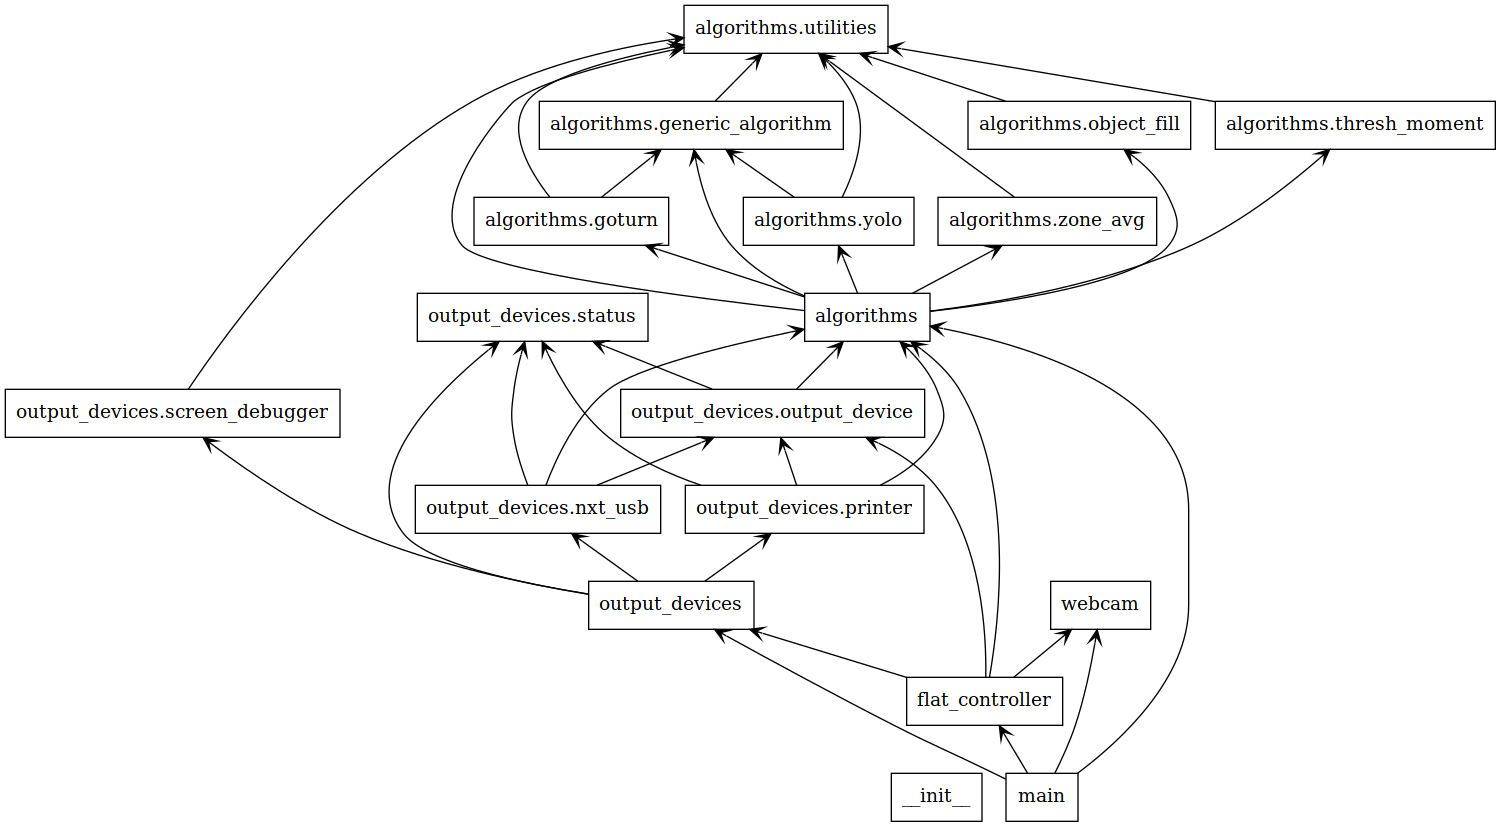
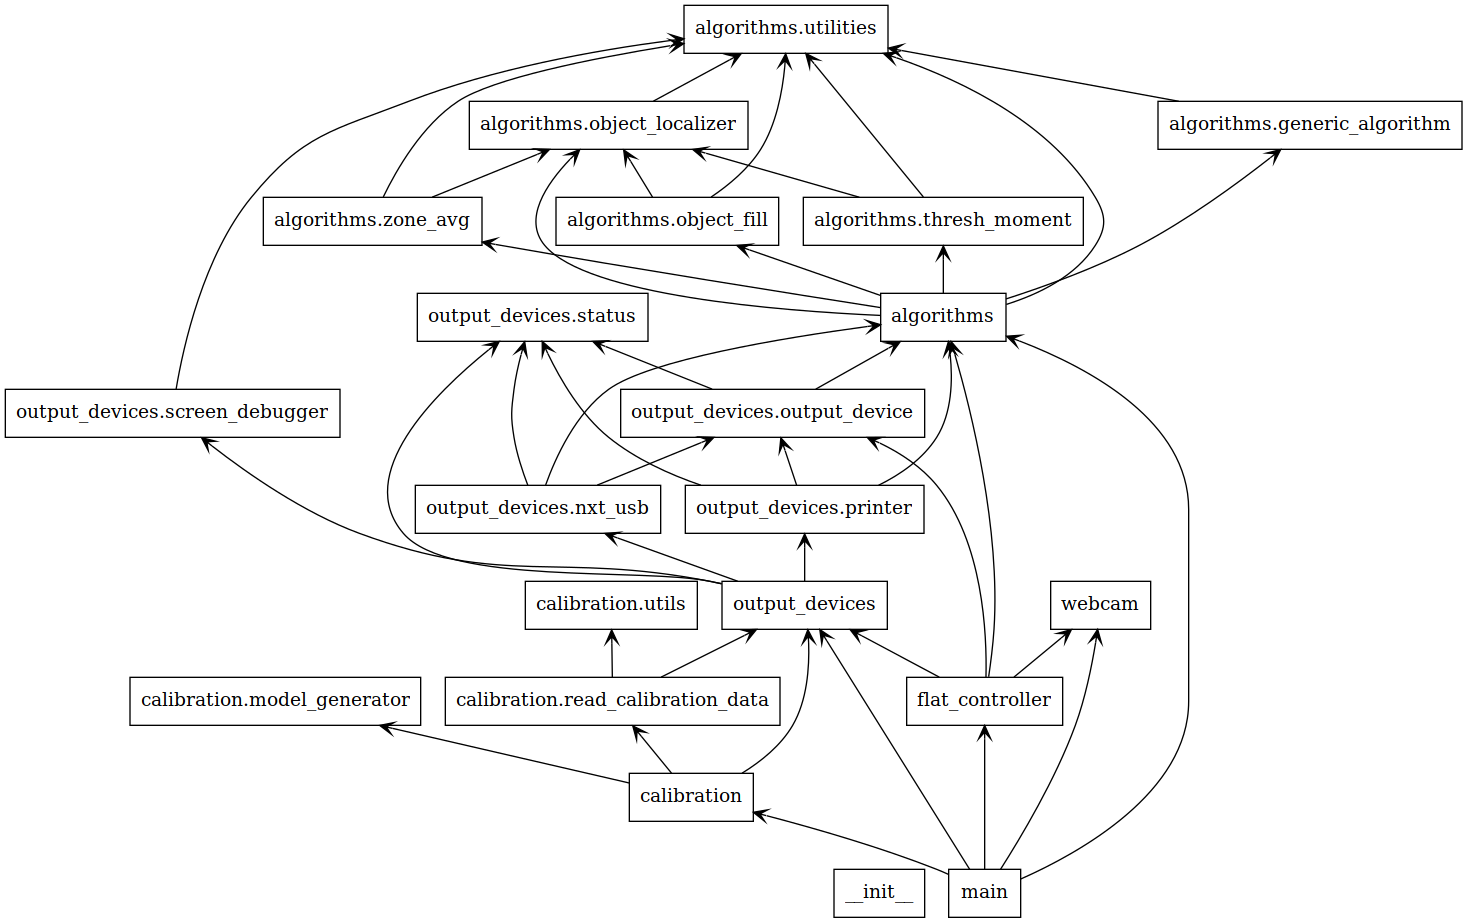
added all snippets

diff --git a/report/5.Solution/MovementModule.tex b/report/5.Solution/MovementModule.tex
@@ -6,7 +6,7 @@ In the following subsections, the movement module will be elaborated upon and so
 
 \subsection{Initialization}
 To utilize the hardware components, they have to be initialized.
-\autoref{lst:InitMotor} shows this process in relation to the different external devices, the motors, laser, and the USB port.
+\autoref{lst:DeviceInit} shows this process in relation to the different external devices, the motors, laser, and the USB port.
 The motors and the lasers are assigned to a specific port, and the USB communication is initialized, as required by nxtOSEK.
 \begin{lstlisting}[language=CSharp, label={lst:DeviceInit},caption={ecrobot\_device\_initialize method from nxt.c}]
 void ecrobot_device_initialize(void) {
@@ -30,11 +30,9 @@ The speed is set to zero, and the initial rotation is set to zero, which results
 
 Whenever a target is acquired, the \texttt{move} function is called.
 \autoref{lst:MoveMotors} shows this function, which first fetches the required motor power and stores this in a global variable.
-A native function is called settings the power on the actual motor.
-The device will then start rotating in the direction of the target, on each axis.
+A native function is called, which makes the motor rotate with the specified power.
 The usage of a global variable, is for usage in the screen module.
-Movement, as can be seen here, is always relative to current location.
-An absolute location of the target is not known, rather the information is based on the center of the camera, and with it the laser.
+Movement, is always relative to current location, as the absolute location of the target is not known, rather the information is based on the center of the camera, and with it the laser.
 
 \begin{lstlisting}[language=CSharp,caption={move method from movement.c},label={lst:MoveMotors}]
   void move(T_VECTOR target) {
@@ -48,7 +46,7 @@ An absolute location of the target is not known, rather the information is based
 
 
 The \texttt{move} function uses the \texttt{get\_speed\_by\_distance} function to get the required speed based on the neural network discussed in \autoref{sec:calibration} and a modifier based on the length of the \texttt{target} vector.
-This feature is explained in \autoref{lst:getspeed}.
+This functionality is shown in \autoref{lst:getspeed}.
 
 \begin{lstlisting}[language=CSharp,caption={get\_speed\_by\_distance method from movement.c},label={lst:getspeed},firstnumber={109}]
 int8_t get_speed_by_distance(int8_t distance, T_AXIS_TYPE axis) {
@@ -64,18 +62,17 @@ int8_t get_speed_by_distance(int8_t distance, T_AXIS_TYPE axis) {
 }
 \end{lstlisting}
 
-If the distance to the target is suffiently small, the motors wont move, which is done by checking whether the distance is less than a constant.
+If the distance to the target is sufficiently small, the motors should not move, which is done by checking whether the distance is less than a constant.
 If this is the case, the returned speed will be zero.
 This \texttt{MOTOR\_DEADZONE} constant is by default 1, meaning that the turret as to aim directly at the target.
 
-If the the distance is larger than \texttt{MOTOR\_DEADZONE}, the function will finding the minimum power required to move in the wanted direction on the relevant axis.
+Alternatively, the function will find the minimum power required to move in the wanted direction on the relevant axis.
 The speed is then timed by $1$ or $-1$ to make sure that the lower bound has the same direction as the distance.
 
 The distance is then mapped into a range, which is a different range based on the axis, in the way described in \autoref{sec:mappingcompvis}.
 
 When the scheduler either is on target or a target cannot be seen, the speed is set to $0$.
-As the system uses the \texttt{ecrobot_set_motor_speed} function, and not the \texttt{nxt_motor_set_speed} function, the motors are automatically set to 'brake', which results in the motor locking when not moving.
-The alternative would be that the motors would power down, and go limp.
+As the system uses the \texttt{ecrobot\_set\_motor\_speed} function, and not the \texttt{nxt\_motor\_set\_speed} function, the motors are automatically set to 'brake', which results in the motor locking when not moving.
 \begin{lstlisting}[language=CSharp,label={lst:StopMotors},caption={stop\_motors method from movement.c}]
 void stop_motors(){
   ecrobot_set_motor_speed(x_motor, 0);

diff --git a/report/5.Solution/MI_solution/object_fill_algorithm.tex b/report/5.Solution/MI_solution/object_fill_algorithm.tex
@@ -1,34 +1,43 @@
 \subsubsection{Object Fill algorithm}\label{solution:objfillalgo}
 
 The core of the Object Fill algorithm is the actual \textit{filling} part.
-It can be seen in a stripped down version in \autoref{lst:objectfill}
+It can be seen in a stripped down version in \autoref{lst:objectfill}.
 
 \begin{lstlisting}[language=Python,label={lst:objectfill},caption={Stripped down version of object fill from object\_fill.py}]
-    def _fill_get_center(self, object_position: Vector, frame: np.ndarray, image_size: Vector) -> Optional[Vector]:
-	    queue: Deque = deque()
-	    queue.append(object_position)
-	    self._blacklisted_pixels.add(object_position)
-	    sum_outline = Vector(0, 0)
-	    sum_redness = 0
-	    sum_elements_in_outline = 0
-	    
-	    while queue:
-		    element = queue.popleft()
-		    pixel_redness = _redness(element.x, element.y, frame)
-		    # is a bounding pixel
-		    if pixel_redness < self.red_threshold:
-			    sum_outline += element
-			    sum_elements_in_outline += 1
-		    
-		    for neighbour in self._get_neighbours(element, image_size) - self._blacklisted_pixels:
-			    sum_redness += pixel_redness
-			    self._blacklisted_pixels.add(neighbour)
-			    queue.append(neighbour)
-	    
-	    if sum_redness > DEFAULT_MIN_TOTAL_REDNESS:
-		    return sum_outline / sum_elements_in_outline
-	    else:
-		    return None
+	def _fill_get_center(self, object_position: Vector, frame: np.ndarray, image_size: Vector) -> Optional[Tuple[Vector,bool]]:
+		queue: Deque = deque()
+		queue.append(object_position)
+		self._blacklisted_pixels.add(object_position)
+		sum_redness = 0
+		# used to calculate whether the bounding box covers the center
+		outline = []
+		
+		while queue:
+			element = queue.popleft()
+			pixel_redness = _redness(element.x, element.y, frame)
+			# is a bounding pixel
+			if pixel_redness < self.red_threshold:
+				outline.append(element)
+				continue
+			
+			for neighbour in self._get_neighbours(element, image_size) - self._blacklisted_pixels:
+				sum_redness += pixel_redness
+				self._blacklisted_pixels.add(neighbour)
+				queue.append(neighbour)
+		
+		sum_outline = Vector(0, 0)
+		for e in outline:
+			sum_outline += e
+		
+		if sum_redness > DEFAULT_MIN_TOTAL_REDNESS:
+			on_target = any(
+				math.sqrt((p.x - self.center.x) ** 2 + (p.y - self.center.y) ** 2) < self.fill_step_size
+				for p in self._blacklisted_pixels
+			)
+			return sum_outline / len(outline), on_target
+		else:
+			return None
+
 \end{lstlisting}
 
 A high level explanation of the algorithm can be found in \autoref{sec:objectfilldesign}.

diff --git a/report/5.Solution/pyUSB.tex b/report/5.Solution/pyUSB.tex
@@ -50,34 +50,36 @@ With the device initialized, communication can now happen.
 The communication itself is relatively simple, with the read method simply reading directly from the byte stream, as shown in \autoref{lst:PythonUSBread}.
 
 \begin{lstlisting}[label={lst:PythonUSBread},caption={Reading from the USB port connected to the NXT}]
-
+	def read(self) -> bytes:
+		return self.device.read(self.in_endpoint.bEndpointAddress, 8)
 \end{lstlisting}
 \todo{tom listing}
 
 When writing to the device, there are two options:
-The first, \texttt{write\_location}, writes a location to the USB, while the second,  \texttt{write\_status}, writes a status.
+The first, \texttt{write\_location}, writes a location to the USB, while the second \texttt{write\_status}, writes a status.
 Both are shown in \autoref{lst:PythonUSBwrite}.
 
-\begin{lstlisting}[label={lst:PythonUSBwrite},caption={Reading and writing from the USB port connected to the NXT}]
-    def read(self) -> bytes:
-    return self.device.read(self.in_endpoint.bEndpointAddress, 8)
+\begin{lstlisting}[label={lst:PythonUSBwrite},caption={Writing from the USB port connected to the NXT}]
 
-def write_location(self, data: Vector) -> None:
-        self.out_endpoint.write(bytes([
-            0,
-            0,
-            int(data.x) & 0xFF,
-            int(data.y) & 0xFF
-        ]))
-
-def write_status(self, status: Status):
-        value = status.value
-        if type(value) is tuple:
-            value = value[0]
-        self.out_endpoint.write(bytes([
-            int(value) & 0xFF,
-            0
-        ]))
+	
+	def write_location(self, data: Tuple[Vector, bool]) -> None:
+	
+		loc, on_target = data
+		self.out_endpoint.write(bytes([
+			Status.ON_TARGET.value if on_target else Status.TARGET_FOUND.value,
+			0,
+			int(loc.x) & 0xFF,
+			int(loc.y) & 0xFF
+		]))
+	
+	def write_status(self, status: Status):
+		value = status.value
+		if type(value) is tuple:
+			value = value[0]
+		self.out_endpoint.write(bytes([
+			int(value) & 0xFF,
+			0
+		]))
 
 \end{lstlisting}
 Both methods send byte wise data.

diff --git a/report/5.Solution/Object_Detection.tex b/report/5.Solution/Object_Detection.tex
@@ -1,6 +1,16 @@
 \subsection{Object Localization}\label{solution:ObjectLocalization}
 As mentioned in \autoref{flatcontrollerimplementation} there are multiple implemented options for object localization algorithms.
-%Hjælp den her sætning vvvv.
+The object localization has to return the direction in which the target is, and whether target is covering the center of the screen.
+This is for the purpose of whether to turn on the laser.
 This subsection will describe the two primary algorithms, that were used throughout the development of the project.
+They all implement the \texttt{ObjectLocalizer} interface, which can be seen in \autoref{lst:objectlocalizer}.
+
+\begin{lstlisting}[language=Python,label={lst:objectlocalizer},caption={The interface of all object localization algorithms}] 
+class ObjectLocalizer:
+	def locate_center(self, frame: np.ndarray) -> Optional[Tuple[Vector, bool]]:
+		raise NotImplementedError
+\end{lstlisting}
+This interface exposes a single function, namely the \texttt{locate\_center} function, taking an image as input and returning a nullable tuple, including a vector, the target direction, and a bool stating whether the target covers the center.
 \input{5.Solution/MI_solution/object_fill_algorithm.tex}
 \input{5.Solution/MI_solution/thres_moment.tex}
+

diff --git a/report/5.Solution/pythoncontroller.tex b/report/5.Solution/pythoncontroller.tex
@@ -28,21 +28,20 @@ The entry point for the python program is \texttt{main.py}.
 The arguments for \texttt{main.py}  are shown in \autoref{lst:MainHelp}.
 \begin{lstlisting}[label={lst:MainHelp},caption={The help message of the commandline interface}]
 $ python3 main.py --help
-usage: main.py [-h] [-a [name]] [-d]
+usage: main.py [-h] [-a [name]] [-n [no_usb]]
 
 Run the object detection part of the F.L.A.T system
 
 optional arguments:
 -h, --help            
 	show this help message and exit
--a [name], --algorithm [name] 
-	Choose which algorithm to run [GOTURN, YOLO, ZONE_AVG, OBJ_FILL]
-	default='obj_fill'
+  -a [name], --algorithm [name]
+	Choose which algorithm to run [ZONE_AVG, OBJ_FILL,
+	THRESH_MOMENT]. default='thresh_moment'
 -n [no_usb], --no-usb [no_usb]
 	Whether to disable USB connection with the NXT.
 	default=False
 \end{lstlisting}
-\todo{make sure these are still up to date when finishing the project}
 
 The main objective of \texttt{main.py} is to determine which arguments to pass onto the \texttt{FlatController}.
 

diff --git a/code/object_detector/algorithms/object_localizer.py b/code/object_detector/algorithms/object_localizer.py
@@ -6,6 +6,15 @@ from .utilities import Vector
 
 
 class ObjectLocalizer:
+    """
+    The interface for each object localization algorithm
+    """
     def locate_center(self, frame: np.ndarray) -> Optional[Tuple[Vector, bool]]:
+        """
+        Locating the center of the target in the image in frame.
+        :param frame: the image from a video stream
+        :return: a nullable tuple with target location and a bool flag whether the target
+            covers the center
+        """
         raise NotImplementedError
 

diff --git a/report/5.Solution/MI_solution/thres_moment.tex b/report/5.Solution/MI_solution/thres_moment.tex
@@ -21,7 +21,13 @@ A stripped down version of the Thresh Moment algorithm can be seen in the follow
 		    # Get center x and center y coordinate based on moment
 		    cx = int(moment["m10"] / moment["m00"])
 		    cy = int(moment["m01"] / moment["m00"])
-		    return Vector(cx, cy)
+            in_center = pointPolygonTest(
+			    biggest_contour,
+			    (frame.shape[1] // 2, frame.shape[0] // 2),
+		    	False
+		    ) == 1
+		    
+		    return Vector(cx, cy), in_center
 	    return None
 \end{lstlisting}
 

diff --git a/code/object_detector/algorithms/object_fill.py b/code/object_detector/algorithms/object_fill.py
@@ -166,7 +166,8 @@ It will:
 
         if sum_redness > DEFAULT_MIN_TOTAL_REDNESS:
             on_target = any(
-                math.sqrt((p.x - self.center.x) ** 2 + (p.y - self.center.y) ** 2) < self.fill_step_size
+                math.sqrt((p.x - self.center.x) ** 2 + (p.y - self.center.y) ** 2) <
+                self.fill_step_size
                 for p in self._blacklisted_pixels
             )
             return sum_outline / len(outline), on_target

diff --git a/code/nxt/inc/nxt.h b/code/nxt/inc/nxt.h
@@ -2,8 +2,6 @@
 #define NXT_H
 #include <stdbool.h>
 
-#define INITIAL_SPEED 20
-
 #ifndef TEST
 #include "kernel.h"
 #include "kernel_id.h"
